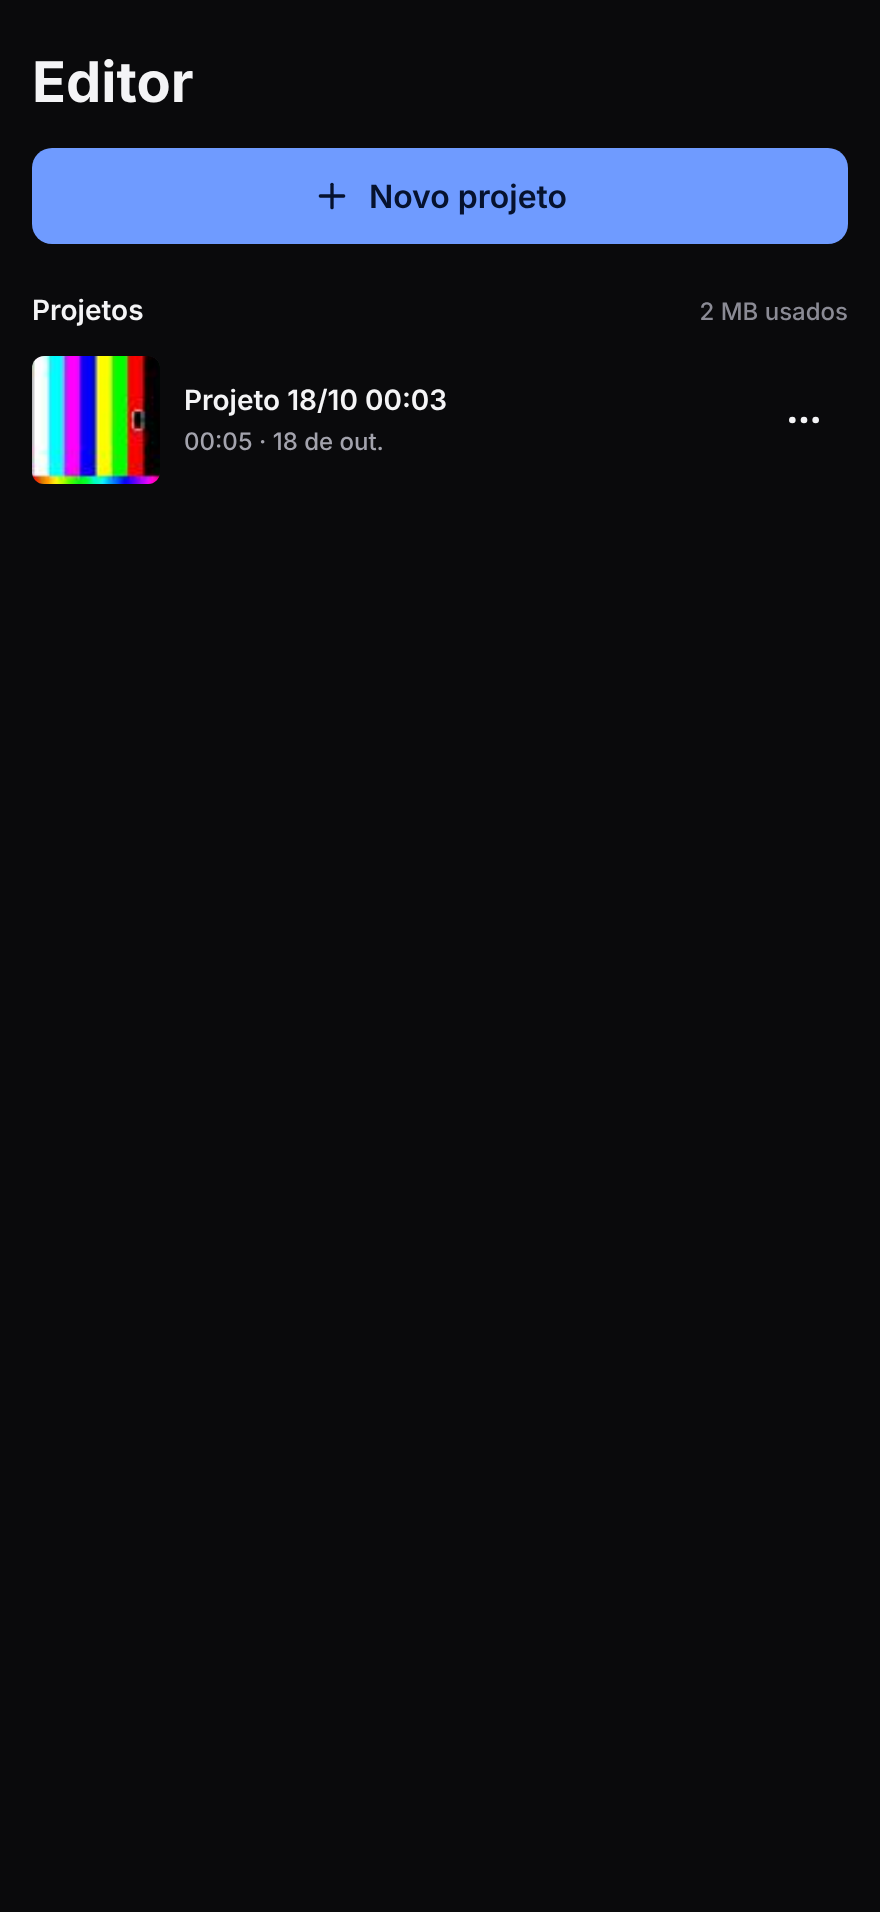
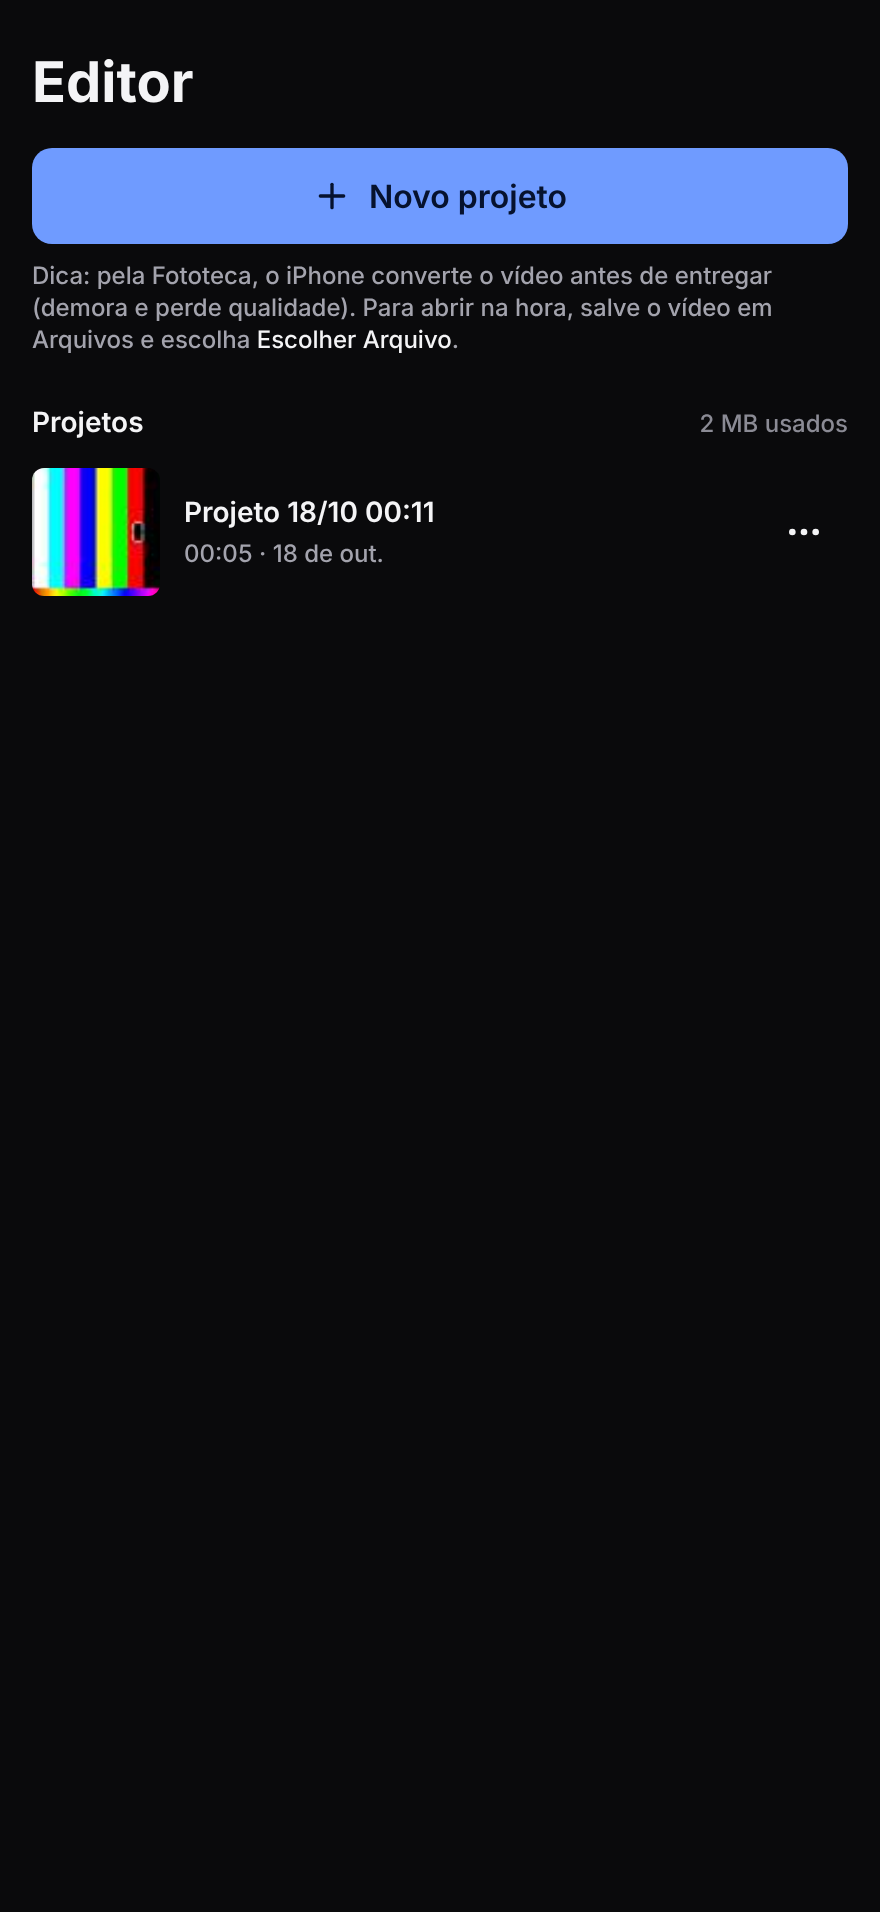
Faster first thumbnails, copy alongside, fix export missing media
Thumbnails and the copy into the app now run side by side, and the
timeline gets a few spread-out thumbnails first. Fixes an export that
reported missing media when a copy finished during the export. Adds a
tip on the home screen about importing from Files to skip the iOS
photo picker's conversion.

Claude-Session: https://claude.ai/code/session_0171u1mNBnwSWvSmcMh16wpa

diff --git a/app/src/media/import.ts b/app/src/media/import.ts
@@ -28,8 +28,11 @@ function emit(e: ImportEvent) {
   for (const fn of listeners) fn(e);
 }
 
-// Files picked this session whose copy into OPFS has not finished.
+// Files picked this session whose copy into OPFS has not finished, and the
+// ones whose copy finished this session (callers may still hold the old
+// "importing" row, e.g. an export that started before the copy ended).
 const pending = new Map<Id, File>();
+const copied = new Set<Id>();
 
 export function isPending(assetId: Id) {
   return pending.has(assetId);
@@ -41,7 +44,7 @@ export function isPending(assetId: Id) {
 export async function assetFile(asset: AssetRow): Promise<File | null> {
   const inMemory = pending.get(asset.id);
   if (inMemory) return inMemory;
-  if (asset.status !== "ready") return null;
+  if (asset.status !== "ready" && !copied.has(asset.id)) return null;
   return readFile(asset.opfsPath);
 }
 
@@ -94,7 +97,9 @@ async function probeImage(file: File) {
 
 // Thumbnails come from key frames only: each one decodes a single frame
 // instead of everything since the previous key frame (slow in 4K).
-async function videoThumbs(file: File) {
+// Two passes so the timeline fills in fast: a few spread-out frames first,
+// then the rest. onPartial gets everything made so far after each pass.
+async function videoThumbs(file: File, onPartial: (t: { times: number[]; blobs: Blob[] }) => void) {
   const input = new Input({ source: new BlobSource(file), formats: ALL_FORMATS });
   try {
     const video = (await input.getPrimaryVideoTrack())!;
@@ -107,14 +112,23 @@ async function videoThumbs(file: File) {
       if (kp) keyTimes.add(kp.timestamp);
     }
     const sink = new CanvasSink(video, { height: THUMB_H, fit: "contain", poolSize: 1 });
-    const blobs: Blob[] = [];
-    const times: number[] = [];
-    for await (const wc of sink.canvasesAtTimestamps([...keyTimes].sort((a, b) => a - b))) {
-      if (!wc) continue;
-      blobs.push(await toJpeg(wc.canvas));
-      times.push(wc.timestamp);
+    const all = [...keyTimes].sort((a, b) => a - b);
+    const step = Math.max(1, Math.floor(all.length / 6));
+    const first = all.filter((_, i) => i % step === 0);
+    const rest = all.filter((_, i) => i % step !== 0);
+    const made: { t: number; blob: Blob }[] = [];
+    const snapshot = () => {
+      made.sort((a, b) => a.t - b.t);
+      return { times: made.map((m) => m.t), blobs: made.map((m) => m.blob) };
+    };
+    for (const pass of [first, rest]) {
+      if (!pass.length) continue;
+      for await (const wc of sink.canvasesAtTimestamps(pass)) {
+        if (wc) made.push({ t: wc.timestamp, blob: await toJpeg(wc.canvas) });
+      }
+      onPartial(snapshot());
     }
-    return { times, blobs };
+    return snapshot();
   } finally {
     input.dispose();
   }
@@ -140,8 +154,14 @@ function reasonOf(err: unknown) {
 const queue: { asset: AssetRow; file: File }[] = [];
 let running = false;
 
+// Thumbnails and the copy run side by side: one decodes, the other writes.
 async function work(asset: AssetRow, file: File) {
-  const thumbs = asset.kind === "video" ? await videoThumbs(file) : await imageThumbs(file);
+  const copy = writeFile(asset.opfsPath, file, (fraction) => emit({ type: "progress", assetId: asset.id, fraction }));
+  copy.catch(() => {}); // awaited below; avoid an unhandled rejection meanwhile
+  const thumbs =
+    asset.kind === "video"
+      ? await videoThumbs(file, (t) => emit({ type: "thumbs", assetId: asset.id, ...t }))
+      : await imageThumbs(file);
   await db.derivatives.add({
     id: crypto.randomUUID(),
     assetId: asset.id,
@@ -153,7 +173,7 @@ async function work(asset: AssetRow, file: File) {
   });
   emit({ type: "thumbs", assetId: asset.id, ...thumbs });
 
-  await writeFile(asset.opfsPath, file, (fraction) => emit({ type: "progress", assetId: asset.id, fraction }));
+  await copy;
   const stored = await readFile(asset.opfsPath);
   if (!stored || stored.size !== file.size) throw new ImportError("Não foi possível guardar o arquivo.");
   // the project may have been deleted while we were copying
@@ -163,6 +183,7 @@ async function work(asset: AssetRow, file: File) {
   }
   const ready: AssetRow = { ...asset, status: "ready", updatedAt: Date.now() };
   await db.assets.update(asset.id, { status: "ready", updatedAt: ready.updatedAt });
+  copied.add(asset.id);
   pending.delete(asset.id);
   emit({ type: "ready", asset: ready });
 }

diff --git a/app/src/screens/Home.tsx b/app/src/screens/Home.tsx
@@ -122,6 +122,10 @@ export function Home() {
           Novo projeto
         </Button>
         <FilePicker ref={picker} onFiles={(f) => void onFiles(f)} />
+        <p className="mt-2 text-xs text-text-muted">
+          Dica: pela Fototeca, o iPhone converte o vídeo antes de entregar (demora e perde qualidade). Para abrir na hora, salve o
+          vídeo em Arquivos e escolha <span className="text-text">Escolher Arquivo</span>.
+        </p>
       </div>
 
       <section aria-labelledby="drafts" className="mt-6 flex flex-1 flex-col px-3">

diff --git a/app/src/editor/store.ts b/app/src/editor/store.ts
@@ -195,6 +195,7 @@ onImportEvent((e) => {
   if (e.type === "thumbs") {
     if (!s.assets.has(e.assetId)) return;
     const thumbs = new Map(s.thumbs);
+    thumbs.get(e.assetId)?.urls.forEach(URL.revokeObjectURL);
     thumbs.set(e.assetId, { times: e.times, urls: e.blobs.map((b) => URL.createObjectURL(b)) });
     useEditor.setState({ thumbs });
   } else if (e.type === "progress") {

diff --git a/app/src/data/opfs.worker.ts b/app/src/data/opfs.worker.ts
@@ -36,7 +36,7 @@ self.onmessage = async (e: MessageEvent<WriteRequest>) => {
         if (done) break;
         access.write(value, { at });
         at += value.byteLength;
-        if (at - lastReport > 8 * 1024 * 1024) {
+        if (at - lastReport > 2 * 1024 * 1024) {
           lastReport = at;
           self.postMessage({ id, progress: at / file.size });
         }
